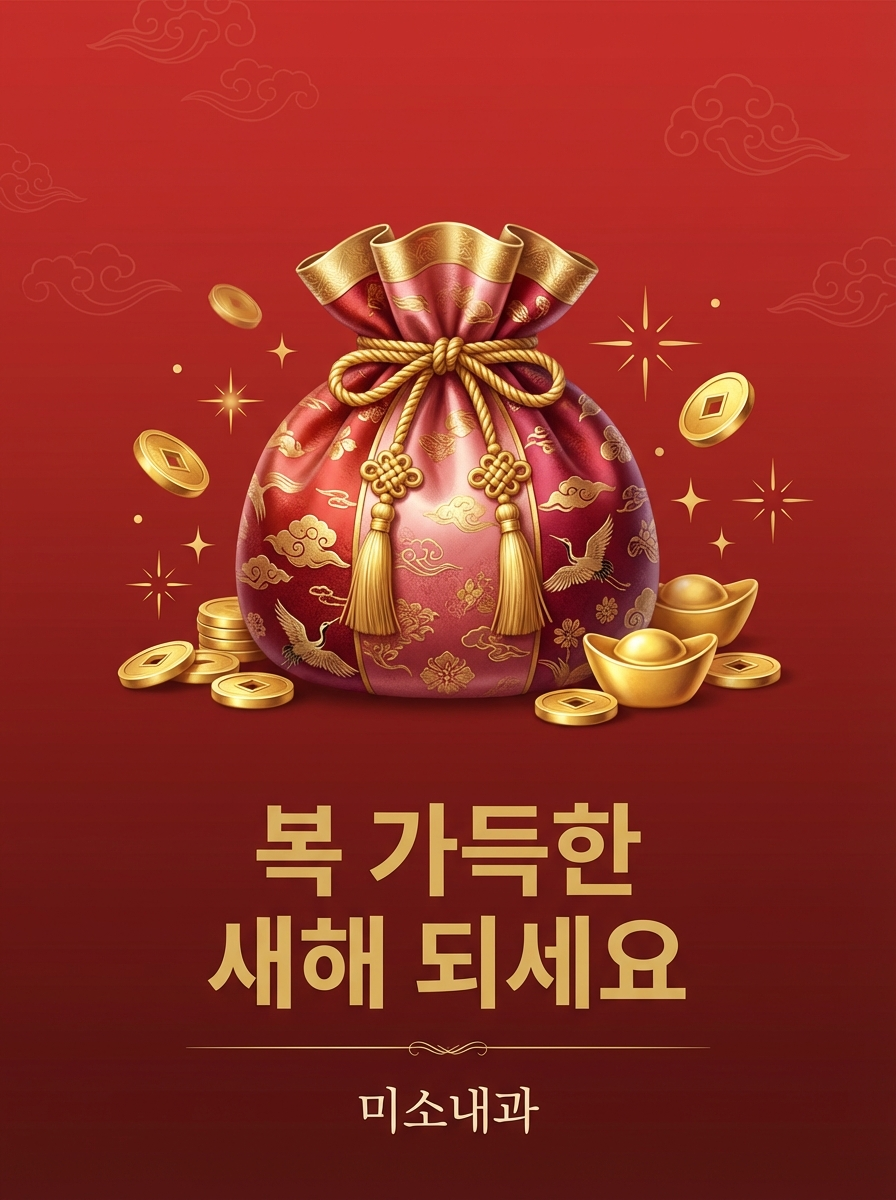
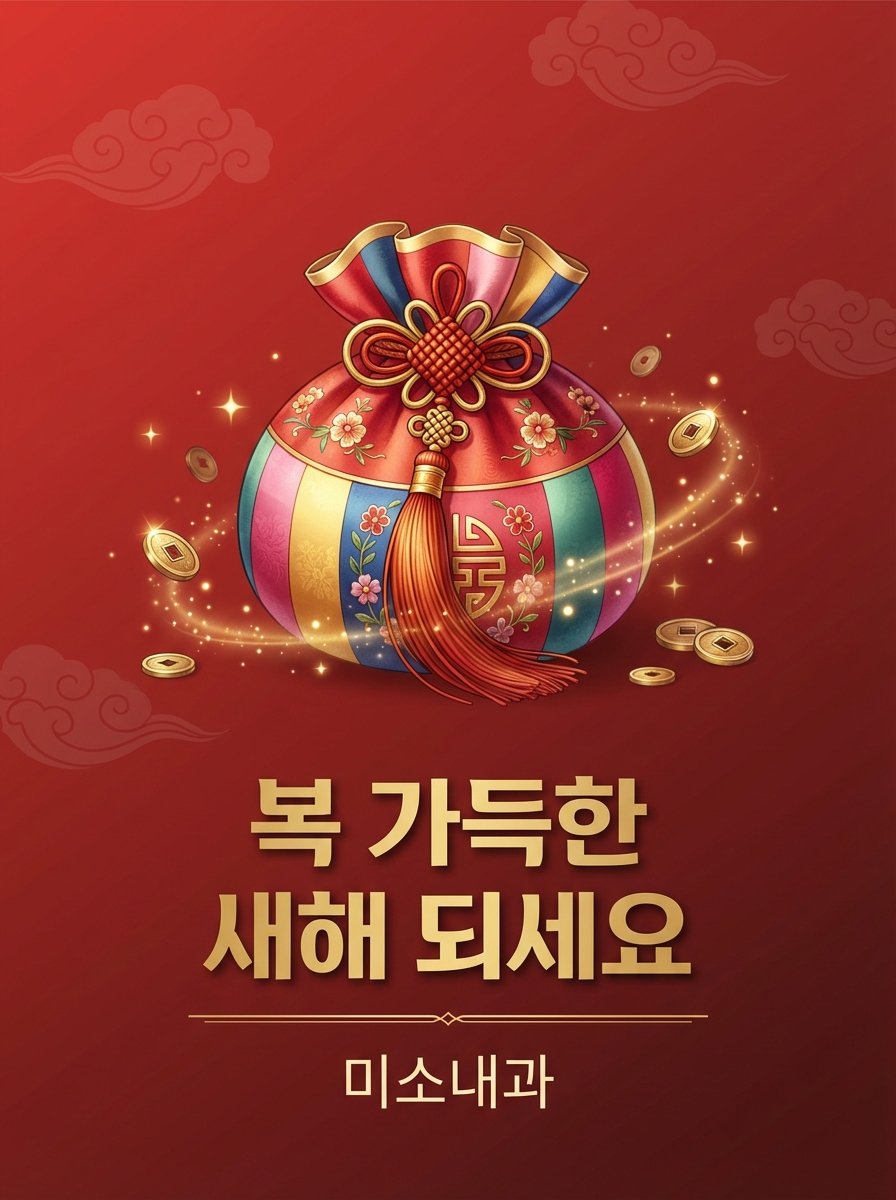
병원명 미입력 시 placeholder 비표시 + 복주머니 한국풍 교체 + pt 스펙 정리
1. 병원명 비어있으면 프롬프트에 "'병원명' placeholder 절대 표시 금지" 추가
2. STRICT RULES에서 "'병원명' placeholder 사용" 권장 → 금지로 변경
3. 복주머니 프롬프트: 중국풍 금지 + 한국 전통 매듭/색동/엽전 명시
4. 복주머니 프리뷰 재생성

https://claude.ai/code/session_0146MbTZpAY12j7EZ6V4viNe

diff --git a/next-app/lib/categoryTemplates.ts b/next-app/lib/categoryTemplates.ts
@@ -1097,7 +1097,14 @@ Korean hospital Lunar New Year greeting poster — BOKJUMONI GOLD style.
 VISUAL STRUCTURE:
 BACKGROUND: Festive red (#dc2626) to darker red (#991b1b) gradient. Subtle traditional cloud patterns at 8-10% opacity.
 
-MAIN ILLUSTRATION (center 40%): LARGE Korean bokjumoni (lucky pouch) illustration. Traditional silk fabric in red/pink/gold, golden drawstring cord, gold embroidered pattern. Surrounding: scattered gold coins, ingots, golden sparkle accents. Semi-realistic, premium quality.
+MAIN ILLUSTRATION (center 40%): LARGE Korean 복주머니 (bokjumoni) illustration — must be clearly KOREAN traditional style, NOT Chinese:
+- Small rounded silk pouch shape (NOT a Chinese red envelope)
+- Colorful Korean silk fabric in vibrant red, pink, or multi-colored saekdong style
+- Korean-style knotting cord (매듭) tied at top with decorative tassel
+- Korean traditional embroidery patterns (flowers or 복 character)
+- Surrounding: small Korean traditional coins (엽전), golden sparkles
+- Style: warm, charming, semi-realistic Korean folk art quality
+⛔ Do NOT draw Chinese red envelopes, Chinese lanterns, or Chinese New Year imagery.
 
 TEXT AREA (below illustration 35%): Greeting in bold gold (#d4a853) text. Thin gold decorative line. Hospital name in light gold/cream.
 

diff --git a/next-app/app/(dashboard)/image/page.tsx b/next-app/app/(dashboard)/image/page.tsx
@@ -997,6 +997,11 @@ The DESIGN must be VISUALLY IDENTICAL to the reference image.`;
     }
 
     try {
+      // 병원명이 비어있으면 프롬프트에 병원명 비표시 지시 추가
+      if (!hospitalName.trim()) {
+        effectivePrompt += `\n\n⛔ 병원명이 입력되지 않았습니다. 이미지에 "병원명", "OO병원", "OO치과" 같은 placeholder 병원명을 절대 표시하지 마세요. 병원명 자리를 완전히 비워두세요.`;
+      }
+
       const res = await fetch('/api/image', {
         method: 'POST',
         headers: { 'Content-Type': 'application/json' },
